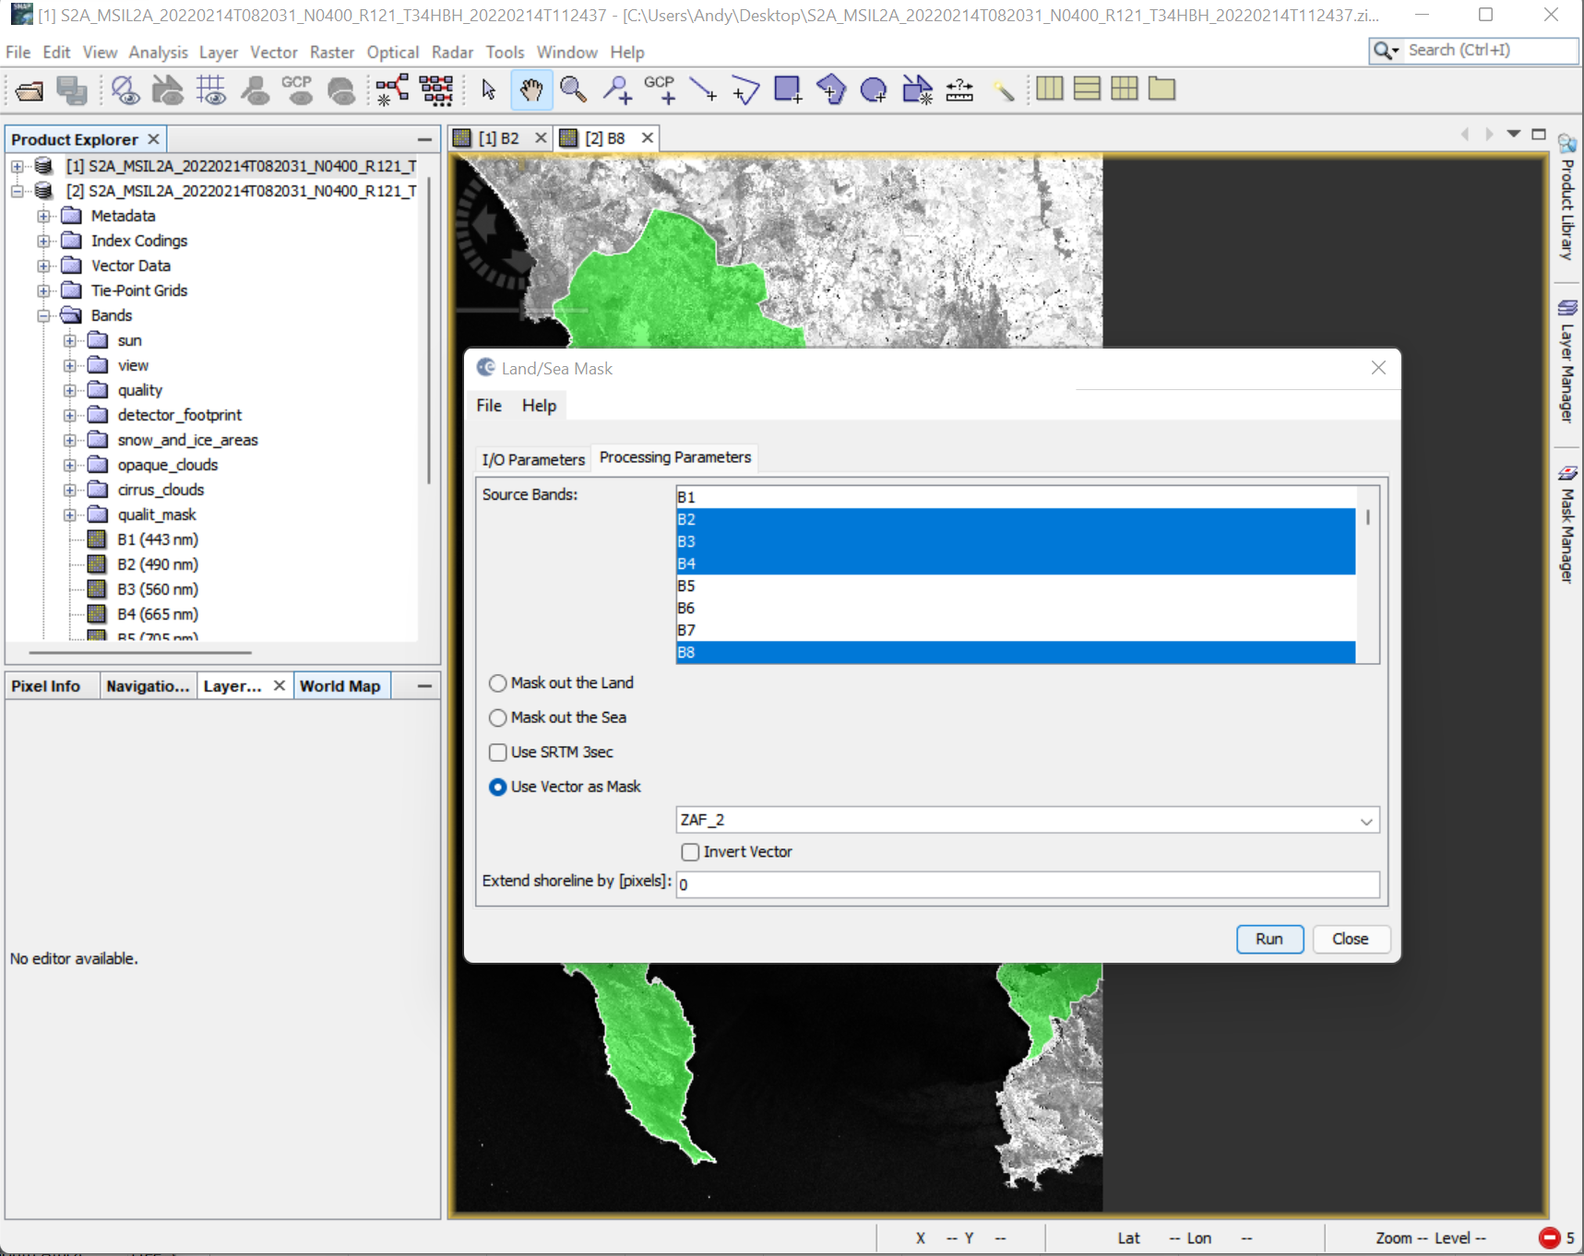
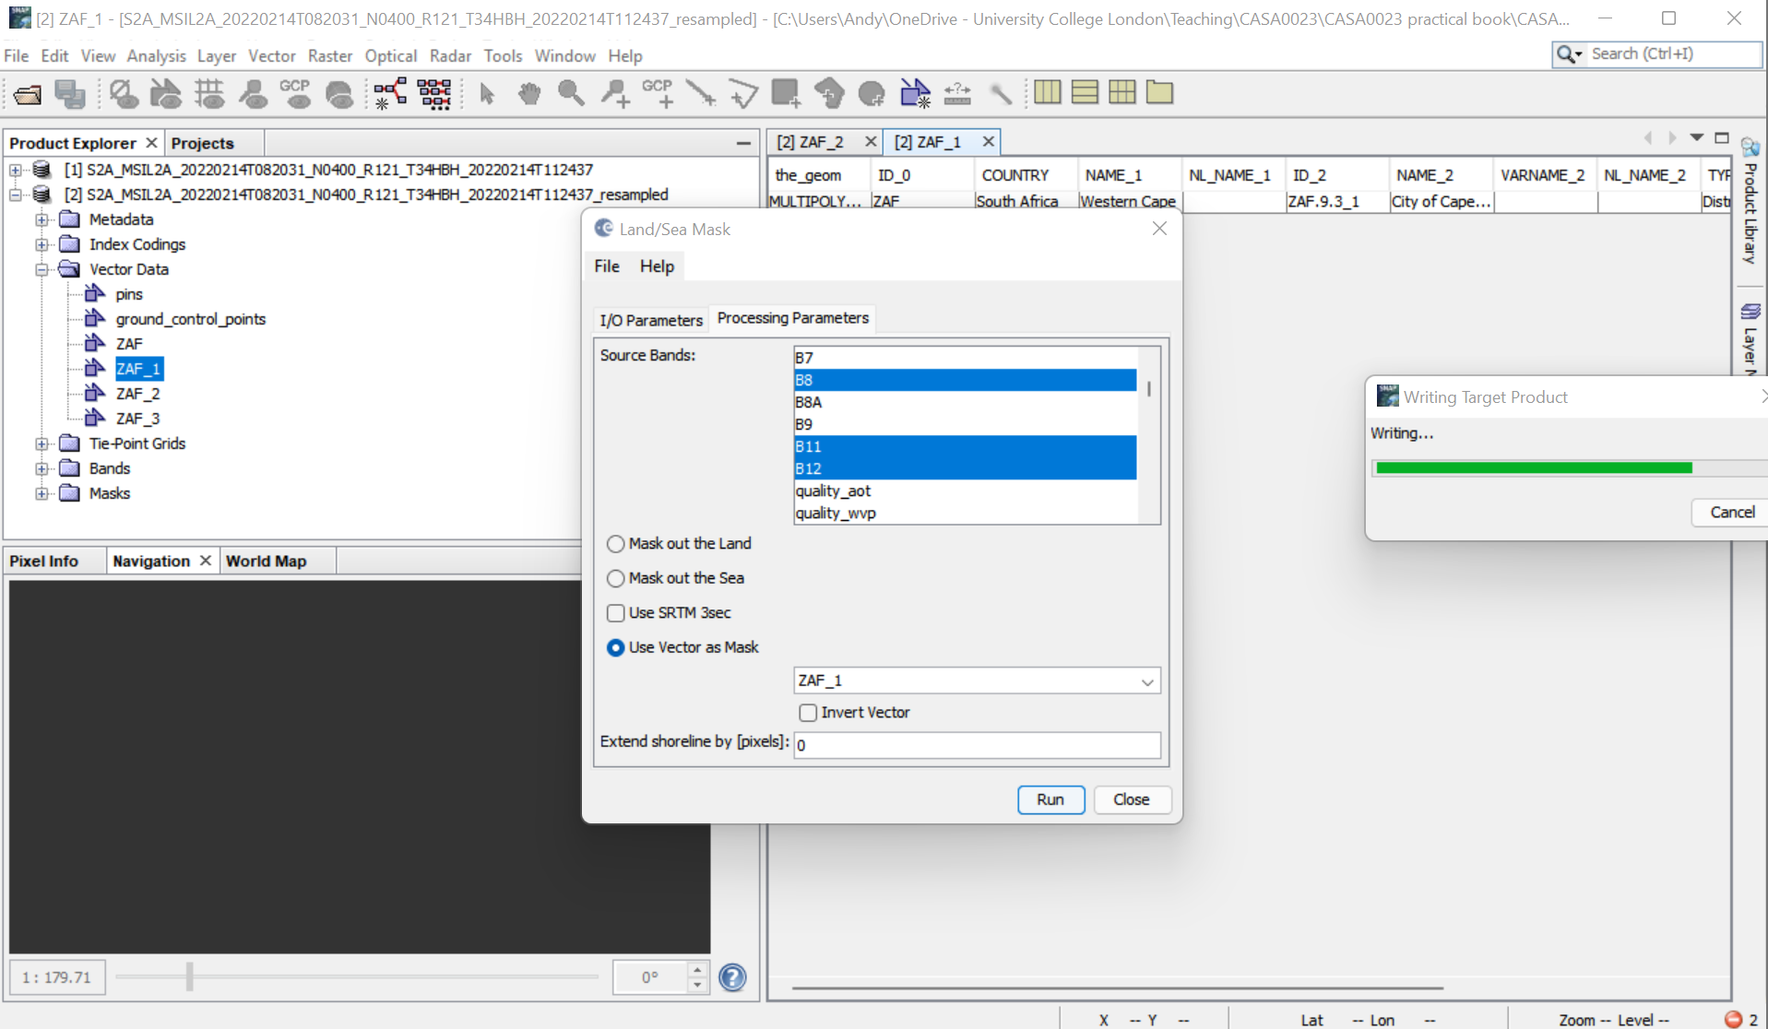
prac1

diff --git a/docs/intro.html b/docs/intro.html
@@ -118,6 +118,8 @@
 <li><a href="#sentinel-download" id="toc-sentinel-download" class="nav-link" data-scroll-target="#sentinel-download"> <span class="header-section-number">1.1.1</span> Sentinel download</a></li>
 <li><a href="#landsat" id="toc-landsat" class="nav-link" data-scroll-target="#landsat"> <span class="header-section-number">1.1.2</span> Landsat</a></li>
 <li><a href="#spectral-signatures" id="toc-spectral-signatures" class="nav-link" data-scroll-target="#spectral-signatures"> <span class="header-section-number">1.1.3</span> Spectral signatures</a></li>
+<li><a href="#using-r" id="toc-using-r" class="nav-link" data-scroll-target="#using-r"> <span class="header-section-number">1.1.4</span> Using R</a></li>
+<li><a href="#review-questions" id="toc-review-questions" class="nav-link" data-scroll-target="#review-questions"> <span class="header-section-number">1.1.5</span> Review questions</a></li>
 </ul>
 </li>
 </ul><div class="toc-actions"><div><i class="bi bi-github"></i></div><div class="action-links"><p><a href="https://github.com/quarto-dev/quarto-demo/edit/main/intro.qmd" class="toc-action">Edit this page</a></p><p><a href="https://github.com/quarto-dev/quarto-demo/issues/new" class="toc-action">Report an issue</a></p></div></div></nav>
@@ -180,7 +182,7 @@
 <div class="cell" data-layout-align="center">
 <div class="cell-output-display">
 <div class="quarto-figure quarto-figure-center">
-<figure class="figure"><p><img src="prac_1/sentinel_bands.png" class="img-fluid figure-img" width="500"></p>
+<figure class="figure"><p><img src="prac_1/sentinel_bands.png" class="img-fluid figure-img" width="450"></p>
 </figure>
 </div>
 </div>
@@ -190,7 +192,7 @@
 <div class="cell" data-layout-align="center">
 <div class="cell-output-display">
 <div class="quarto-figure quarto-figure-center">
-<figure class="figure"><p><img src="prac_1/sentinel_data_cape_town_TCI.png" class="img-fluid figure-img" width="500"></p>
+<figure class="figure"><p><img src="prac_1/sentinel_data_cape_town_TCI.png" class="img-fluid figure-img" width="450"></p>
 </figure>
 </div>
 </div>
@@ -203,7 +205,7 @@
 <div class="cell" data-layout-align="center">
 <div class="cell-output-display">
 <div class="quarto-figure quarto-figure-center">
-<figure class="figure"><p><img src="prac_1/sentinel_merge.png" class="img-fluid figure-img" width="250"></p>
+<figure class="figure"><p><img src="prac_1/sentinel_merge.png" class="img-fluid figure-img" width="450"></p>
 </figure>
 </div>
 </div>
@@ -266,7 +268,7 @@
 <div class="cell" data-layout-align="center">
 <div class="cell-output-display">
 <div class="quarto-figure quarto-figure-center">
-<figure class="figure"><p><img src="prac_1/SNAP.png" class="img-fluid figure-img" width="250"></p>
+<figure class="figure"><p><img src="prac_1/SNAP.png" class="img-fluid figure-img" width="450"></p>
 </figure>
 </div>
 </div>
@@ -278,7 +280,7 @@
 <div class="cell" data-layout-align="center">
 <div class="cell-output-display">
 <div class="quarto-figure quarto-figure-center">
-<figure class="figure"><p><img src="prac_1/SNAP_colour_comp.png" class="img-fluid figure-img" width="250"></p>
+<figure class="figure"><p><img src="prac_1/SNAP_colour_comp.png" class="img-fluid figure-img" width="450"></p>
 </figure>
 </div>
 </div>
@@ -290,15 +292,31 @@
 <li><p>The short-wave infrared composite: B12, B8A and B4 shows vegetation in green, the darker the greener the denser it is and brown shows built up or bare soil</p></li>
 </ul>
 <p>For other band colour combinations <a href="https://gisgeography.com/sentinel-2-bands-combinations/">consult gisgeogrpahy</a></p>
-</section><section id="image-statistics" class="level5" data-number="1.1.1.2.4"><h5 data-number="1.1.1.2.4" class="anchored" data-anchor-id="image-statistics">
-<span class="header-section-number">1.1.1.2.4</span> Image statistics</h5>
-<section id="scatterplots" class="level6" data-number="1.1.1.2.4.1"><h6 data-number="1.1.1.2.4.1" class="anchored" data-anchor-id="scatterplots">
-<span class="header-section-number">1.1.1.2.4.1</span> Scatterplots</h6>
+</section><section id="creating-a-project" class="level5" data-number="1.1.1.2.4"><h5 data-number="1.1.1.2.4" class="anchored" data-anchor-id="creating-a-project">
+<span class="header-section-number">1.1.1.2.4</span> Creating a project</h5>
+<p>Before we go any further we should create a project, that way all our processed outputs will be stored within the projected and loaded again when we open it in future - like projects in any other software such as QGIS or R. Go File &gt; Project &gt; Save project. A project tab next to the product explorer tab will appear, but not you can’t access the bands from within the project that must be done through the product explorer.</p>
+</section><section id="image-statistics" class="level5" data-number="1.1.1.2.5"><h5 data-number="1.1.1.2.5" class="anchored" data-anchor-id="image-statistics">
+<span class="header-section-number">1.1.1.2.5</span> Image statistics</h5>
+</section><section id="image-histogram" class="level5" data-number="1.1.1.2.6"><h5 data-number="1.1.1.2.6" class="anchored" data-anchor-id="image-histogram">
+<span class="header-section-number">1.1.1.2.6</span> Image histogram</h5>
+<p>When we open an RGB image in SNAP the histogram is clipped by <a href="https://forum.step.esa.int/t/rgb-generation-in-snap/9066">1% at the lower end and 4% at the upper end</a> and then mapped in bins between 0 and 255 for display. A computer screen in full RGB displays colours between 0 and 255, hence why this is done.</p>
+<p>This is similar to the contrast enhancement we saw in QGIS and we can manually change it here again through View &gt; Tool Windows &gt; Colour Manipulation.</p>
+<p>Changing the distribution displayed will impact the colour of the image - try using the sliders or selecting 95% and 100% of all pixels to display. To reset click the back arrow button.</p>
+<div class="cell" data-layout-align="center">
+<div class="cell-output-display">
+<div class="quarto-figure quarto-figure-center">
+<figure class="figure"><p><img src="prac_1/colour.png" class="img-fluid figure-img" width="450"></p>
+</figure>
+</div>
+</div>
+</div>
+<section id="scatterplots" class="level6" data-number="1.1.1.2.6.1"><h6 data-number="1.1.1.2.6.1" class="anchored" data-anchor-id="scatterplots">
+<span class="header-section-number">1.1.1.2.6.1</span> Scatterplots</h6>
 <p>Under the analysis button there are a variety of tools we can use to explore some image statistics….for example, here i have created a scatter plot of band 4 (x axis) and band 8 ( y axis). These bands are the red (vegetation absorbs) and Near-infrared (NIR, that vegetation strongly reflects)…so where we have high values of NIR and low values of red the plot represents dense vegetation whilst low values of both red and NIR are usually wet bare soil:</p>
 <div class="cell" data-layout-align="center">
 <div class="cell-output-display">
 <div class="quarto-figure quarto-figure-center">
-<figure class="figure"><p><img src="prac_1/red_NIR.png" class="img-fluid figure-img" width="250"></p>
+<figure class="figure"><p><img src="prac_1/red_NIR.png" class="img-fluid figure-img" width="450"></p>
 </figure>
 </div>
 </div>
@@ -306,36 +324,42 @@
 <div class="cell" data-layout-align="center">
 <div class="cell-output-display">
 <div class="quarto-figure quarto-figure-center">
-<figure class="figure"><p><img src="prac_1/red_NIR_lab11.png" class="img-fluid figure-img" width="250"></p>
+<figure class="figure"><p><img src="prac_1/red_NIR_lab11.png" class="img-fluid figure-img" width="450"></p>
+<p></p><figcaption aria-hidden="true" class="figure-caption">Source: <a href="http://geofaculty.uwyo.edu/rhowell/classes/remote_sensing/labs/lab_11_2018_alternate_vegetation.pdf">Remote Sensing 4113</a></figcaption><p></p>
 </figure>
 </div>
 </div>
 </div>
-<p>http://geofaculty.uwyo.edu/rhowell/classes/remote_sensing/labs/lab_11_2018_alternate_vegetation.pdf</p>
-</section><section id="tasseled-caps" class="level6" data-number="1.1.1.2.4.2"><h6 data-number="1.1.1.2.4.2" class="anchored" data-anchor-id="tasseled-caps">
-<span class="header-section-number">1.1.1.2.4.2</span> Tasseled Caps</h6>
+<p>In remote sensing this can be called “spectral feature space”, more on this later in the term. You might see the software ENVI in the source above - ENVI is propriety software that is similar to SNAP.</p>
+</section><section id="tasseled-caps" class="level6" data-number="1.1.1.2.6.2"><h6 data-number="1.1.1.2.6.2" class="anchored" data-anchor-id="tasseled-caps">
+<span class="header-section-number">1.1.1.2.6.2</span> Tasseled Caps</h6>
 <p>The output should look somewhat like a “Tasseled Cap” (a wizards hat at an angle), although this is different to the tasseled cap <em>transformation</em> which was proposed by Kauth and Thomas (1976). The tasseled cap transformation was originally applied to Landsat data being composed of brightness, greeness, yellow stuff (yes!) and none-such. It was then modified in 1968 to brightness, greeness and wetness. This can can useful for identifying urban areas, they are <strong>usually</strong> bright (although Andy will have more to say on this), high biomass will show in the greeness and moisture in the wetness. The tasseled cap comes from the plot between brightness on the x axis and greenness on the y axis.</p>
 <p>Traditionally this is usually only applied to Landsat data, however if our bands in other sensors (like Sentinel) cover the same wavelengths we can apply it…</p>
-<p><span class="math display">\[Brightness = 0.3037(B2)+0.2793(B3)+0.4743(B4)+0.5585(B8)+0.5082(B11)+0.1863(B12)\]</span> <span class="math display">\[Greeness = −0.2848(B2)−0.2435(B3)−0.5436(B4)+0.7243(B8)+0.0840(B11)−0.1800(B12)\]</span> <span class="math display">\[Wetness = 0.1509(B2)+0.1973(B3)+0.3279(B4)+0.3406(B8)−0.7112(B11)−0.4572(B12)\]</span></p>
+<p><span class="math display">\[Brightness = 0.3037(B2)+0.2793(B3)+
+0.4743(B4)+0.5585(B8)+
+0.5082(B11)+0.1863(B12)\]</span> <span class="math display">\[Greeness = −0.2848(B2)−0.2435(B3)
+−0.5436(B4)+0.7243(B8)+
+0.0840(B11)−0.1800(B12)\]</span> <span class="math display">\[Wetness = 0.1509(B2)+0.1973(B3)
++0.3279(B4)+0.3406(B8)−
+0.7112(B11)−0.4572(B12)\]</span></p>
 <p>Now, this is fairly straight forward to do in SNAP (or R) using Band Maths (Raster &gt; Band Maths) and then clicking edit expression, before we can apply this we have two problems:</p>
 <ul>
 <li><p>B11 and B12 are at a 20 meter resolution where as all the others at a 10 meter resolution, to fix this we must re-sample to 20m</p></li>
 <li><p>Using the image provided will mean that the entire tile is computed when we really only care about our study area</p></li>
 </ul>
 <p>Note, that there are many spatial indexes that can be applied to remotely sensed data, the <a href="https://www.indexdatabase.de/">Index DataBase</a> holds them all or Chapter 8, pages 325 from Jensen is a good place to start.</p>
-</section></section><section id="masking-and-resampling" class="level5" data-number="1.1.1.2.5"><h5 data-number="1.1.1.2.5" class="anchored" data-anchor-id="masking-and-resampling">
-<span class="header-section-number">1.1.1.2.5</span> Masking and resampling</h5>
+</section></section><section id="masking-and-resampling" class="level5" data-number="1.1.1.2.7"><h5 data-number="1.1.1.2.7" class="anchored" data-anchor-id="masking-and-resampling">
+<span class="header-section-number">1.1.1.2.7</span> Masking and resampling</h5>
 <p>This is sometimes also called clipping in CASA0005 we saw cropping (to the extent of a polygon) and then masking. Here I am only interested in a study area of the City of Cape Town District Municipality, which is in the gadm40_ZAF_2 <a href="https://gadm.org/">GADM data</a>, it also appears in the gadm40_ZAF_3 data too!</p>
 <p>Explore the GADM data in QGIS to work out what spatial aggregation you can use to mask your study area. For the sake of this example you might want to use the smallest spatial unit, GADM level 4, which for South Africa is wards.</p>
 <p>SNAP only permits ESRI shapefile to be loaded! To do so you must select the product on interest in the product explorer &gt; Vector &gt; Import &gt; ESRI Shapefile</p>
-<p>When you open a Shapefile in SNAP each polygon within your current extent will be made into an individual feature, opening the feature (from the Vector Data folder) will open the attribute table for the row of that polygon.</p>
-<p>In my case the City of Capetown has been called ZAF_2 and now i will clip the raster to the polygon through the Land/Sea Mask…from Raster &gt; Masks</p>
-<p>However, the problem here is that we can only mask bands on the same spatial resolution, so we need to re sample bands 2,3,4 and 8 to 20m…here, we can use the Sentinel 2 resampling toolbox to resample the image.</p>
+<p>When you open a Shapefile in SNAP each polygon within your current extent will be made into an individual feature, opening the feature (from the Vector Data folder) will open the attribute table for the row of that polygon. You also might notice that the shapefile may have a larger extent than the image, this means we’d need to find another image and “mosaic” (merge or join together) them but we will see this later in the module, for now just accept that some area might be missing.</p>
+<p>In my case the City of Capetown has been called ZAF_1 and now i will clip the raster to the polygon. However, the problem here is that we can only mask bands on the same spatial resolution, so we need to re sample bands 2,3,4 and 8 to 20m…here, we can use the Sentinel 2 resampling toolbox to resample the image and then move to masking it.</p>
 <p>There are two options to resample within SNAP, a traditional resample which just considers the neighbouring pixels or the Sentinel 2 products resample to account for the particularities of the angle (satellite viewing) bands. For the sake of time we will use the traditional resample to generate a 20m raster dataset…Raster &gt; Geometric &gt; Resampling…</p>
 <div class="cell" data-layout-align="center">
 <div class="cell-output-display">
 <div class="quarto-figure quarto-figure-center">
-<figure class="figure"><p><img src="prac_1/resample.png" class="img-fluid figure-img" width="250"></p>
+<figure class="figure"><p><img src="prac_1/resample.png" class="img-fluid figure-img" width="450"></p>
 </figure>
 </div>
 </div>
@@ -345,7 +369,7 @@
 <div class="cell" data-layout-align="center">
 <div class="cell-output-display">
 <div class="quarto-figure quarto-figure-center">
-<figure class="figure"><p><img src="prac_1/mask.png" class="img-fluid figure-img" width="250"></p>
+<figure class="figure"><p><img src="prac_1/mask.png" class="img-fluid figure-img" width="450"></p>
 </figure>
 </div>
 </div>
@@ -354,29 +378,104 @@
 <div class="cell" data-layout-align="center">
 <div class="cell-output-display">
 <div class="quarto-figure quarto-figure-center">
-<figure class="figure"><p><img src="prac_1/mask.png" class="img-fluid figure-img" width="250"></p>
+<figure class="figure"><p><img src="prac_1/mask.png" class="img-fluid figure-img"></p>
 </figure>
 </div>
 </div>
 </div>
+<p>At this stage you may want to remove the shapefile that will still be within the new product created. Under the vector folder remove the relevant polygons.</p>
 <p>Then compute the tasseled cap transformation (Raster &gt; Band Maths) with the equations above. Note that when using a subtraction (-) you might get invalid expression so use the inbuilt subtraction within the edit expression button.</p>
 <p>We can now display the bands through the colour guns, R: Brightness, G: Greeness, B: Wetness and also create a scatter plot between Greeness (y) and Brightness (x) like we did earlier.</p>
-<p>At this stage it is useful to also have open a true colour composite to compare to our tasseled cap transformation RBG image…what do the values and colours show?</p>
+<p>At this stage it is useful to also have open a true colour composite to compare to our tasseled cap transformation RBG image…what do the values and colours show? The [Tasseled Cap function](https://pro.arcgis.com/en/pro-app/2.7/help/analysis/raster-functions/tasseled-cap-function.htm#:~:text=The%20Tasseled%20Cap%20(Kauth%2DThomas,the%20graphical%20distribution%20of%20data.) from ArcPro will help explain this further.</p>
 <div class="cell" data-layout-align="center">
 <div class="cell-output-display">
 <div class="quarto-figure quarto-figure-center">
-<figure class="figure"><p><img src="prac_1/tass_cap.png" class="img-fluid figure-img" width="250"></p>
+<figure class="figure"><p><img src="prac_1/tass_cap.png" class="img-fluid figure-img" width="450"></p>
 </figure>
 </div>
 </div>
 </div>
 </section></section></section><section id="landsat" class="level3" data-number="1.1.2"><h3 data-number="1.1.2" class="anchored" data-anchor-id="landsat">
 <span class="header-section-number">1.1.2</span> Landsat</h3>
-<p>We have seen in <a href="https://andrewmaclachlan.github.io/CASA0005repo/advanced-raster-analysis.html#raster-data-landsat">CASA0005 how to access Landsat imagery</a>. Now go and source some cloud free Landsat 8 Collection 1 level 2 imagery (surface reflectance data) for your city…</p>
+<p>We have seen in <a href="https://andrewmaclachlan.github.io/CASA0005repo/advanced-raster-analysis.html#raster-data-landsat">CASA0005 how to access Landsat imagery</a>. Now go and source some cloud free Landsat 8 Collection 2 level 2 imagery (surface reflectance data) for your city…and unzip it.</p>
+<p>In SNAP go File &gt; Open Product, navigate to the <code>.MTL</code> and open it. The product should appear. This is a real benefit of SNAP, having data from multiple sensors in the same software that can e explored together - when you move around on the Landsat image then the Sentinel image will also move to the same location.</p>
+<p>To see the bands (or RGB images) side by side use the window dividers in the top right …</p>
+<div class="cell" data-layout-align="center">
+<div class="cell-output-display">
+<div class="quarto-figure quarto-figure-center">
+<figure class="figure"><p><img src="prac_1/views.png" class="img-fluid figure-img" width="450"></p>
+</figure>
+</div>
+</div>
+</div>
+<p>For the next part of the practical we will compare the spectral signatures from both Sentinel and Landsat. To do so we need to generate a series of points of interest (called POIs) that are coincident in both images. First we need to do two things:</p>
+<ul>
+<li>Clip all the spectral data from the Sentinel image to the vector outline
+<ul>
+<li>we will need to resample the Sentinel data to the same pixel size so consider what you want to do here
+<ul>
+<li>upscale or downscale ?</li>
+<li>What bands over Sentinel and Landsat actually overlap, do you need all of them<br>
+</li>
+<li>what resolution is useful</li>
+</ul>
+</li>
+</ul>
+</li>
+<li>Clip the Landsat image to the same vector outline as the Sentinel image, during the mask you can select the bands to mask and output</li>
+</ul>
 <section id="select-pois" class="level4" data-number="1.1.2.1"><h4 data-number="1.1.2.1" class="anchored" data-anchor-id="select-pois">
 <span class="header-section-number">1.1.2.1</span> Select POIs</h4>
-</section></section><section id="spectral-signatures" class="level3" data-number="1.1.3"><h3 data-number="1.1.3" class="anchored" data-anchor-id="spectral-signatures">
+<ul>
+<li><p>To create points of interest we want select pixels representative of certain land cover types (e.g.&nbsp;Bare earth, water, grass, forest, urban) so we can compare them from both Landsat and Sentinel. Of course the pixels need to be present in both datasets.</p></li>
+<li><p>We can select pixels through QGIS, R or SNAP. I’ll focus on the latter here.</p></li>
+<li><p>Make a new vector data container for a land cover type (icon on the right in the image below). Note that it will be created within the data product that is selected.</p></li>
+</ul>
+<div class="cell" data-layout-align="center">
+<div class="cell-output-display">
+<div class="quarto-figure quarto-figure-center">
+<figure class="figure"><p><img src="prac_1/vector_container.png" class="img-fluid figure-img" width="450"></p>
+</figure>
+</div>
+</div>
+</div>
+<ul>
+<li>Next use a drawing tool to draw around areas of land cover, when you select the drawing tool you will be asked which landcover the polygon is for, make sure the area is in both imagery - switch between them as we have done or display them side by side. Whilst doing this it is useful to have the spectrum view open (View &gt; Tool Windows &gt; Optical &gt; :</li>
+</ul>
+<div class="cell" data-layout-align="center">
+<div class="cell-output-display">
+<div class="quarto-figure quarto-figure-center">
+<figure class="figure"><p><img src="prac_1/spectrum.PNG" class="img-fluid figure-img" width="450"></p>
+</figure>
+</div>
+</div>
+</div>
+<ul>
+<li><p>Once done create another vector data container and repeat for the next land cover type.</p></li>
+<li><p>Consider have a separate class for highly reflective urban (e.g.&nbsp;industrial areas)</p></li>
+</ul></section></section><section id="spectral-signatures" class="level3" data-number="1.1.3"><h3 data-number="1.1.3" class="anchored" data-anchor-id="spectral-signatures">
 <span class="header-section-number">1.1.3</span> Spectral signatures</h3>
+<p>To compare out spectral signatures we have a few options</p>
+<ul>
+<li>right click on the image in SNAP and then export mask pixels as a <code>.txt</code>, but you will need to do this for each land cover class and for each image (Sentinel and Landsat).</li>
+</ul>
+<p>or</p>
+<ul>
+<li>export the imagery (to Geotiff) and vector files (to shapefiles) and then subset in R</li>
+</ul>
+<p>I will do the second option here:</p>
+<ul>
+<li><p>Right clicking on the vector containers will allow export to shapefile - do this for all the land covers you have</p></li>
+<li>
+</li></ul></section><section id="using-r" class="level3" data-number="1.1.4"><h3 data-number="1.1.4" class="anchored" data-anchor-id="using-r">
+<span class="header-section-number">1.1.4</span> Using R</h3>
+</section><section id="review-questions" class="level3" data-number="1.1.5"><h3 data-number="1.1.5" class="anchored" data-anchor-id="review-questions">
+<span class="header-section-number">1.1.5</span> Review questions</h3>
+<p>Write around 2-3 paragraphs on the following:</p>
+<ul>
+<li>Briefly explain the process of sourcing, loading and manipulating remotely sensed datasets</li>
+<li>
+</li></ul>
 <p>https://github.com/robmarkcole/satellite-image-deep-learning#techniques</p>
 <p>https://urbanspatial.github.io/classifying_satellite_imagery_in_R/#Supervised_Classification</p>
 <p>https://opengislab.com/blog/2018/5/14/flood-mapping-with-sentinel-1-data-using-snap-and-qgis</p>
